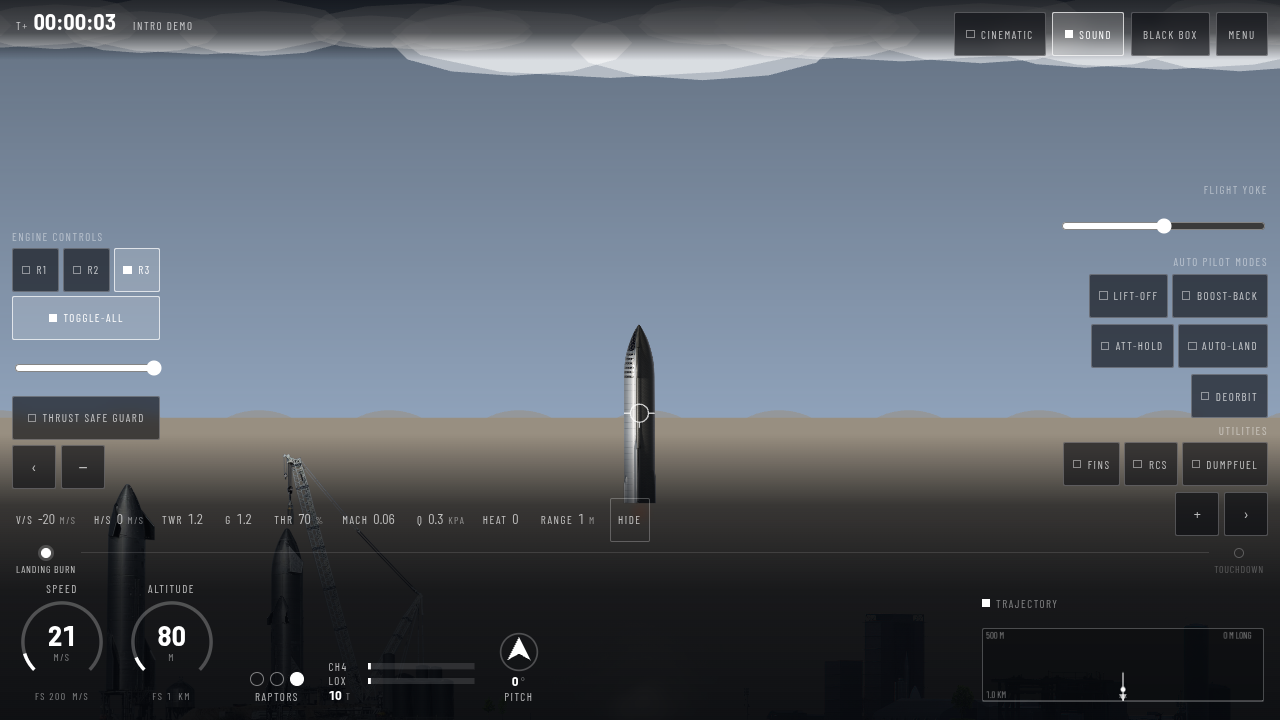
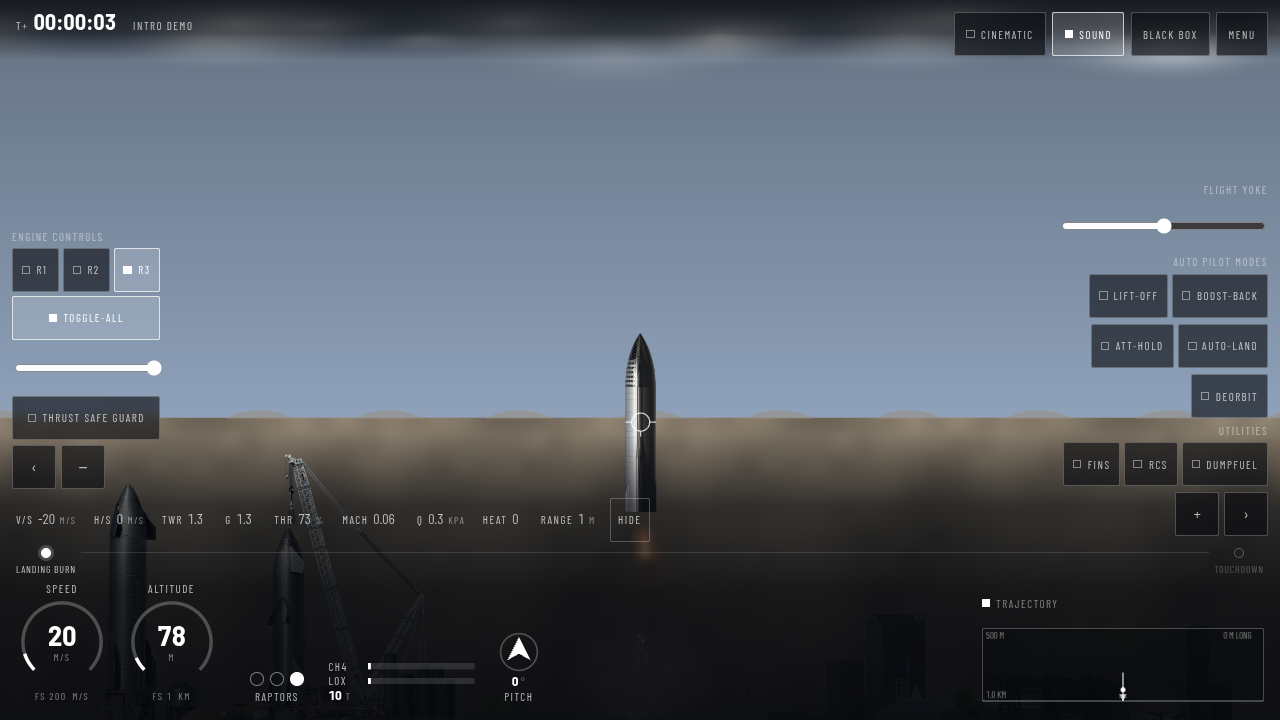
M9.9: perf, budget, mobile, ship — Graphics is done
THE FRAME PATH, measured rather than assumed. The shock banding is a
hypot and a cosine per live particle per frame, so the pool was run both
ways and subtracted: 34.4 us/frame plain, 44.0 us banded — the shock
train costs 9.5 us. That is 0.06% of a 16.7 ms frame and one
two-hundredth of the HUD's own 2 ms budget. The banded core also goes
through the pool-never-grows invariant M3.3 and M7.5 use, with spacing
and strength swept rather than held, because bandOf is zero when strength
is zero and that is the branch keeping this free for the other eight
effects.

THE MOUNT COST. Six textures are generated instead of fetched — four
particle frames, the terrain mottle, the ground ramp — and "off the
critical path" is a claim worth measuring rather than asserting: 21.3 ms,
once, at mount, while the art is being fetched anyway. A second of noise
generation before the first frame would have been a worse bargain than
shipping the art. Twenty-one milliseconds is not.

Pool headroom: 747 of 4000, 81% free, at launch-pad-takeoff, against
M7's 576 baseline.

BUDGETS. First-load JS 202.7 kB of 250 — up 6.4 kB across the milestone,
every byte of it generator code and none of it art. Fonts 32.7 of 80.
Audio 0.0 of 250. The asset budget is byte-identical: 22 webp files at
the M9 start commit and 22 now, which is what "generated, never shipped"
was for.

THE MILESTONE-WIDE CLAIMS, verified at this commit. git diff
v2/src/core against the M9 start commit: 171 changed lines, zero of them
[…]

diff --git a/v2/tests/view/perf.test.ts b/v2/tests/view/perf.test.ts
@@ -31,7 +31,11 @@ import {
   plumeScaleFactor,
   plumeSpreadFactor,
   SEA_LEVEL_PRESSURE,
+  shockCellLength,
+  shockDiamondStrength,
 } from '$view/atmosphere-look';
+import { PARTICLE_TEXTURES, writeParticleTexture } from '$view/particles';
+import { MOTTLE_TILE, RAMP_HEIGHT, writeGroundRamp, writeMottleTile } from '$view/terrain';
 import * as cmd from '$core/control/commands';
 
 /** Median of repeated timings — mean is hostage to a single GC pause. */
@@ -336,5 +340,112 @@ describe('particle pool headroom, with the velocity streaks added', () => {
     expect(peak, `peak ${peak} of ${particles.capacity}`).toBeLessThan(particles.capacity * 0.75);
     // And it is genuinely emitting, or this measures nothing.
     expect(peak).toBeGreaterThan(100);
+  });
+});
+
+/* ── M9.9: what M9 cost the frame path ─────────────────────────────────── */
+
+describe('M9 added emitters and a banding term — measure them, do not assume', () => {
+  it('the shock-banded core does not grow the pool either', () => {
+    /*
+      The same invariant as the two above, run over M9.6's additions: a second
+      plume emitter, and the first effect ever to carry a per-particle BAND —
+      which means the first that reads a stored spawn position every frame. A
+      new call shape into a pooled system is exactly where the 2021 leak came
+      from, and the band arrives through two new optional arguments.
+
+      Spacing and strength are swept rather than held, because a constant would
+      exercise the one case least likely to be wrong: `bandOf` is set to zero
+      when strength is zero, which is the branch that keeps this free for the
+      other eight effects.
+    */
+    const particles = createParticleSystem(Texture.EMPTY, 1_000, 9_090_909);
+    const children = particles.container.children.length;
+
+    for (let frame = 0; frame < 20_000; frame++) {
+      const pressure = SEA_LEVEL_PRESSURE * (0.5 + 0.5 * Math.sin(frame * 0.01));
+      particles.emit(
+        'raptorPlumeCore',
+        0,
+        0,
+        0,
+        1,
+        DT,
+        plumeScaleFactor(pressure),
+        plumeSpreadFactor(pressure),
+        shockCellLength(pressure),
+        shockDiamondStrength(pressure),
+      );
+      particles.emit('raptorPlume', 0, 0, 0, 1, DT, plumeScaleFactor(pressure));
+      particles.update(DT);
+      expect(particles.container.children.length).toBe(children);
+    }
+
+    expect(particles.alive).toBeGreaterThan(0);
+    expect(particles.alive).toBeLessThanOrEqual(particles.capacity);
+  });
+
+  it('costs a measurable and small fraction of the frame, banded or not', () => {
+    /*
+      THE NUMBER M9.9 EXISTS TO REPORT. The banding is a hypot and a cosine per
+      live particle per frame, and the honest way to know what that costs is to
+      run the same pool both ways and subtract — not to reason about it.
+
+      Reported rather than tightly bounded: this runs on whatever CI machine is
+      free, and a per-frame budget asserted to the microsecond on shared hardware
+      is a flake with a plan. The bound is the HUD's 2 ms, which the whole
+      particle system has to fit inside several times over.
+    */
+    const run = (banded: boolean): number => {
+      const particles = createParticleSystem(Texture.EMPTY, 4_000, 1_234_567);
+      // Fill the pool to something like a real peak before timing anything.
+      for (let i = 0; i < 400; i++) {
+        particles.emit('raptorPlumeCore', 0, 0, 0, 1, DT, 1, 1, banded ? 40 : 0, banded ? 0.55 : 0);
+        particles.update(DT);
+      }
+      const started = performance.now();
+      for (let frame = 0; frame < 2_000; frame++) {
+        particles.emit('raptorPlumeCore', 0, 0, 0, 1, DT, 1, 1, banded ? 40 : 0, banded ? 0.55 : 0);
+        particles.update(DT);
+      }
+      return (performance.now() - started) / 2_000;
+    };
+
+    const plain = run(false);
+    const banded = run(true);
+    const report =
+      `particle update: ${(plain * 1000).toFixed(1)} us/frame plain, ` +
+      `${(banded * 1000).toFixed(1)} us banded — the shock train costs ` +
+      `${((banded - plain) * 1000).toFixed(1)} us`;
+    console.log(report);
+
+    expect(banded, report).toBeLessThan(2);
+    expect(plain, report).toBeLessThan(2);
+  });
+
+  it('generating every texture M9 added is a mount cost, not a frame cost', () => {
+    /*
+      Four particle textures and two terrain textures, all generated rather than
+      fetched — which is what keeps the asset budget byte-identical. The trade
+      is CPU at mount, and "off the critical path" is a claim worth measuring
+      rather than asserting: a second of noise generation before the first frame
+      would be a worse bargain than shipping the art.
+
+      Measured through the pure writers, because the canvas half needs a DOM and
+      the arithmetic is all of the cost.
+    */
+    const started = performance.now();
+    const cell = new Uint8ClampedArray(64 * 64 * 4);
+    for (const name of PARTICLE_TEXTURES) writeParticleTexture(name, 64, cell);
+    const tile = new Uint8ClampedArray(MOTTLE_TILE * MOTTLE_TILE * 4);
+    writeMottleTile(MOTTLE_TILE, tile);
+    const ramp = new Uint8ClampedArray(RAMP_HEIGHT * 4);
+    writeGroundRamp(RAMP_HEIGHT, ramp);
+    const elapsed = performance.now() - started;
+
+    console.log(`generating all six M9 textures: ${elapsed.toFixed(1)} ms, once, at mount`);
+    // A frame is 16.7 ms. Generating everything must cost less than a handful of
+    // them, or the page has a visible hitch where it used to have a download.
+    expect(elapsed, `${elapsed.toFixed(1)} ms`).toBeLessThan(120);
   });
 });

diff --git a/v2/tests/e2e/screenshot.spec.ts b/v2/tests/e2e/screenshot.spec.ts
@@ -110,3 +110,48 @@ for (const [label, metres] of [
     });
   });
 }
+
+/* ── M9.9: the shot this application could not take until M9.2 ─────────── */
+
+/**
+ * A re-entry, WITH THE VEHICLE IN IT.
+ *
+ * Before M9.2 this image was impossible. The `reentry` preset put the ship
+ * 1734 px off the left edge of a 1280 px frame within four seconds of loading
+ * and left it there for the rest of the flight, because the view was driven by
+ * wall time while the simulation was driven by its own — so every screenshot of
+ * a re-entry that anyone could have taken was a screenshot of an empty sky.
+ * That is why it is worth a picture of its own rather than a line in a log.
+ *
+ * Held in slow motion for the shutter, for the same reason the shake spec is:
+ * at 7 km/s the vehicle crosses a frame in a fifth of a second, and a capture
+ * timed by wall clock would land somewhere different every run.
+ */
+test('capture a re-entry @screenshot', async ({ page }) => {
+  test.skip(!process.env['CAPTURE_SCREENSHOT'], 'set CAPTURE_SCREENSHOT=1 to write the image');
+
+  await page.setViewportSize({ width: 1280, height: 720 });
+  await page.goto('/', { waitUntil: 'load' });
+  const altitude = page.locator(byTestId(readoutValueTestId('altitude')));
+  await expect
+    .poll(async () => (await altitude.textContent()) !== '', { timeout: 20_000 })
+    .toBe(true);
+
+  await page.locator(byTestId('open-menu')).click();
+  await page.locator(byTestId('preset-reentry')).click();
+  await page.locator(byTestId('menu-configure')).click();
+  await expect(page.locator(byTestId('menu'))).toBeHidden();
+
+  await page.locator(byTestId('open-menu')).click();
+  await page.locator(byTestId('menu-time-direction')).click();
+  await page.locator(byTestId('menu-time-rate')).fill('4');
+  await page.locator(byTestId('menu-close')).click();
+  await expect(page.locator(byTestId('menu'))).toBeHidden();
+
+  // Long enough for the plasma trail to build behind it.
+  await page.waitForTimeout(6_000);
+
+  await page.screenshot({
+    path: fileURLToPath(new URL('../../../docs/reentry.png', import.meta.url)),
+  });
+});

diff --git a/docs/ROADMAP-TASKS.md b/docs/ROADMAP-TASKS.md
@@ -546,7 +546,7 @@ for its first outing.*
   files, asset budget byte-identical; the harness shows tone spread across the ground band at
   three altitudes where today it shows one value; the roaming rule and the fixed StarBase
   positions are unchanged. **The pig is at x = 0 and stays there.**
-- [ ] **M9.9 Perf, budget, mobile, ship** — the standard closer. Frame-path cost of the added
+- [x] **M9.9 Perf, budget, mobile, ship** — the standard closer. Frame-path cost of the added
   emitters and textures measured against the M7 baseline and reported, not assumed; texture
   generation timed at mount and shown to be off the critical path; all five Playwright projects
   including the four phone viewports; fresh screenshots — including, for the first time, a
@@ -2302,3 +2302,47 @@ for its first outing.*
   **Gate:** lint, **1533 unit tests** (10 new), build all exit 0; **playwright 336 passed, 6 skipped
   across all five projects**; `git diff v2/src/core` still comment lines and nothing else; digests
   unmoved; first-load JS **202.7 kB** of 250 — the generator's code, and no art.
+- 2026-08-26 · M9.9 · **The closer, with the numbers measured rather than assumed.**
+  **Frame path.** The shock banding is a hypot and a cosine per live particle per frame, so the
+  pool was run both ways and subtracted rather than reasoned about: **34.4 µs/frame plain, 44.0 µs
+  banded — the shock train costs 9.5 µs**, which is 0.06% of a 16.7 ms frame and one two-hundredth
+  of the HUD's own 2 ms budget. The banded core is also run through the same
+  pool-never-grows invariant M3.3 and M7.5 use, with spacing and strength SWEPT rather than held,
+  because `bandOf` is set to zero when strength is zero and that is the branch keeping this free for
+  the other eight effects.
+  **Mount cost.** Six textures are now generated instead of fetched — four particle frames, the
+  terrain mottle, the ground ramp — and "off the critical path" is a claim worth measuring:
+  **21.3 ms, once, at mount**, while the art is being fetched anyway. A second of noise generation
+  before the first frame would have been a worse bargain than shipping the art; 21 ms is not.
+  **Pool headroom: 747 of 4000 (81% free)**, at `launch-pad-takeoff`, against M7's 576 baseline.
+  **Budgets.** First-load JS **202.7 kB of 250** — up 6.4 kB across the milestone, every byte of it
+  generator code and none of it art. Fonts 32.7 of 80. Audio 0.0 of 250. **The asset budget is
+  byte-identical: 22 `.webp` files at the M9 start commit and 22 now**, which is what "generated,
+  never shipped" was for.
+  **The milestone-wide claims, verified at this commit.** `git diff v2/src/core` against the M9
+  start commit: **171 changed lines, zero of them non-comment**. `git log a90d97f..HEAD -- src/core`
+  lists exactly one commit, **M9.4**. `tests/golden/unification.test.ts` is untouched since
+  **2fc2d85 (M2.14)**, so the seven digests are byte-identical to their M2.14 values.
+  **Screenshots refreshed, including one that was impossible.** `docs/reentry.png` is a re-entry at
+  80 km and 7.3 km/s with the vehicle IN THE FRAME, plasma trail streaming, velocity streaks tearing
+  past. Before M9.2 that picture could not be taken: the ship was 1734 px off the left edge within
+  four seconds and the follow law had given up. The README carries it, with the reason.
+  **WHAT NO TEST COVERS IS WHETHER IT LOOKS GOOD.** Twenty-eight new assertions across nine tasks
+  measure extent in ship-lengths, tone spread, blown-out share, mid-tone share, cone width,
+  wander in pixels and microseconds per frame. Not one of them is an opinion about the picture, and
+  none of them can be. Whether a plume two and a half ship-lengths long is right, whether 0.6% of
+  viewport height is the correct shake, whether the deck now reads as cloud or as haze — those are
+  viewing decisions, and this milestone hands them back rather than pretending otherwise.
+  **Gate:** lint, **1536 unit tests**, build all exit 0; **playwright 336 passed, 7 skipped across
+  all five projects**, phone viewports included.
+
+## M9 — done
+
+Nine tasks, nine commits, 2026-08-26. The milestone found three shipped bugs that three milestones
+of screenshot review had missed — a camera that had never framed a re-entry, a shake constant a
+thousand times too large, a fin trail saturated for 85% of a launch — and closed the class by
+building the instrument first. Four wrong unit annotations in `core/` were found by an audit that
+was only granted because one of them had already caused two of those bugs. Three of the plan's own
+acceptance metrics turned out to be the wrong statistic and were replaced with ones that
+discriminate, each said out loud rather than quietly loosened; one test was retired for the same
+reason. `core/` is unchanged but for comments; the seven digests have not moved since M2.14.

diff --git a/README.md b/README.md
@@ -34,6 +34,15 @@ ninety degrees.
 <img src="docs/depth-100km.png" alt="A hundred kilometres up: stars, and the earth below" width="270">
 </p>
 
+![A re-entry at eighty kilometres and seven and a third kilometres a second: the vehicle broadside to the airflow with a plasma trail streaming behind it, velocity streaks tearing past, and the earth a mottled band below](docs/reentry.png)
+
+That picture was impossible until August 2026, and not because nobody took it.
+The view was driven by the wall clock while the simulation was driven by its
+own, so a `Re-entry` put the vehicle 1734 px off the left edge of a 1280 px
+frame within four seconds of loading — and the follow law gave up beyond half a
+viewport, so it never came back. Every screenshot anyone could have taken of a
+re-entry was a screenshot of an empty sky. See `docs/GRAPHICS-PLAN.md`.
+
 ---
 
 ## Playing it
